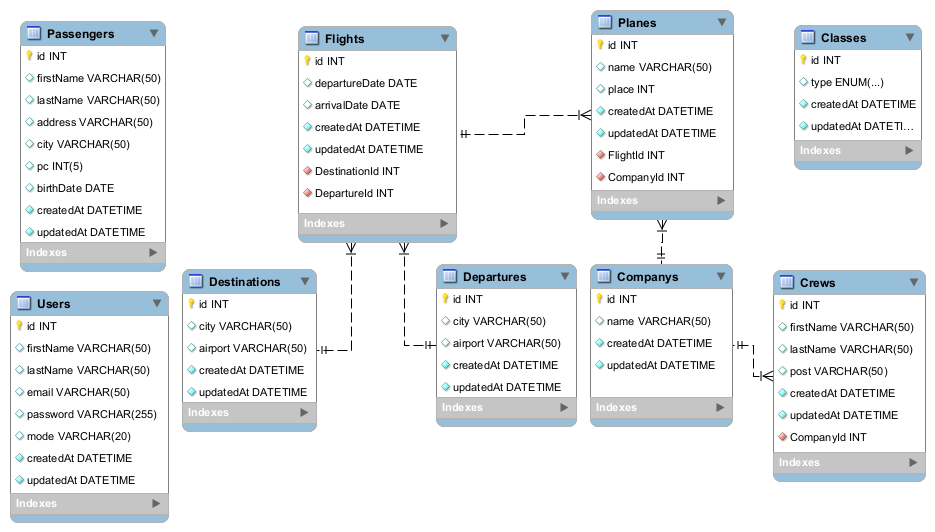
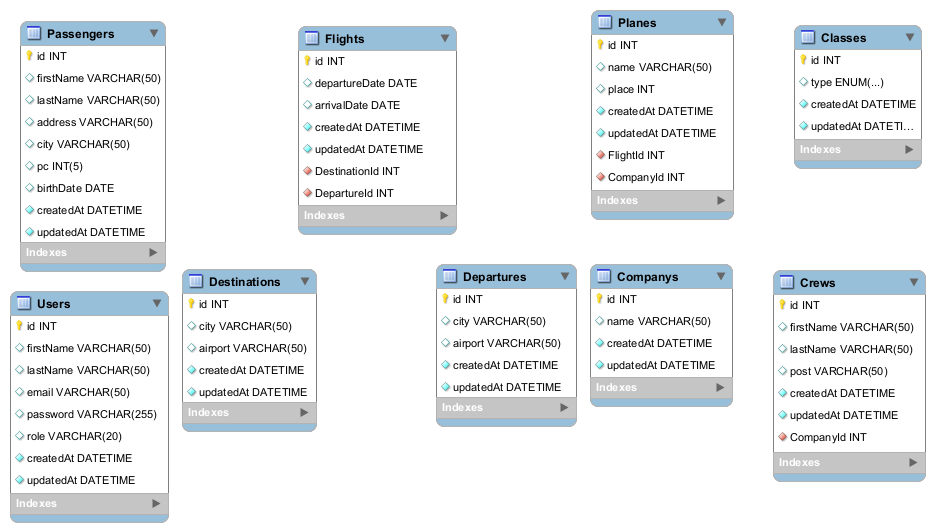
fixed database

diff --git a/api/controllers/auth.controller.js b/api/controllers/auth.controller.js
@@ -30,7 +30,7 @@ module.exports = {
                         lastName  : lastName,
                         email     : email,
                         password  : bcryptebPassword,
-                        mode      : 'normal'
+                        role      : 'normal'
                     })
                     .then(function(newUser){
                         return res.status(201).json({
@@ -127,7 +127,7 @@ module.exports = {
                 result: {
                     user: {
                         email: userFound.email,
-                        mode : userFound.mode
+                        role : userFound.role
                     }
                 }
             });

diff --git a/api/models/user.js b/api/models/user.js
@@ -5,7 +5,7 @@ module.exports = (sequelize, DataTypes) => {
     lastName: DataTypes.STRING,
     email: DataTypes.STRING,
     password: DataTypes.STRING,
-    mode: DataTypes.STRING
+    role: DataTypes.STRING
   }, {});
   User.associate = function(models) {
     User.belongsToMany(models.Passenger, {through: 'UserPassengers'});

diff --git a/api/utils/jwt.util.js b/api/utils/jwt.util.js
@@ -12,7 +12,7 @@ module.exports = {
             firstName : userData.firstName,
             lastName  : userData.lastName,
             email     : userData.email,
-            mode      : userData.mode
+            role      : userData.role
         },
         process.env.TOKEN_SECRET_KEY,
         {
